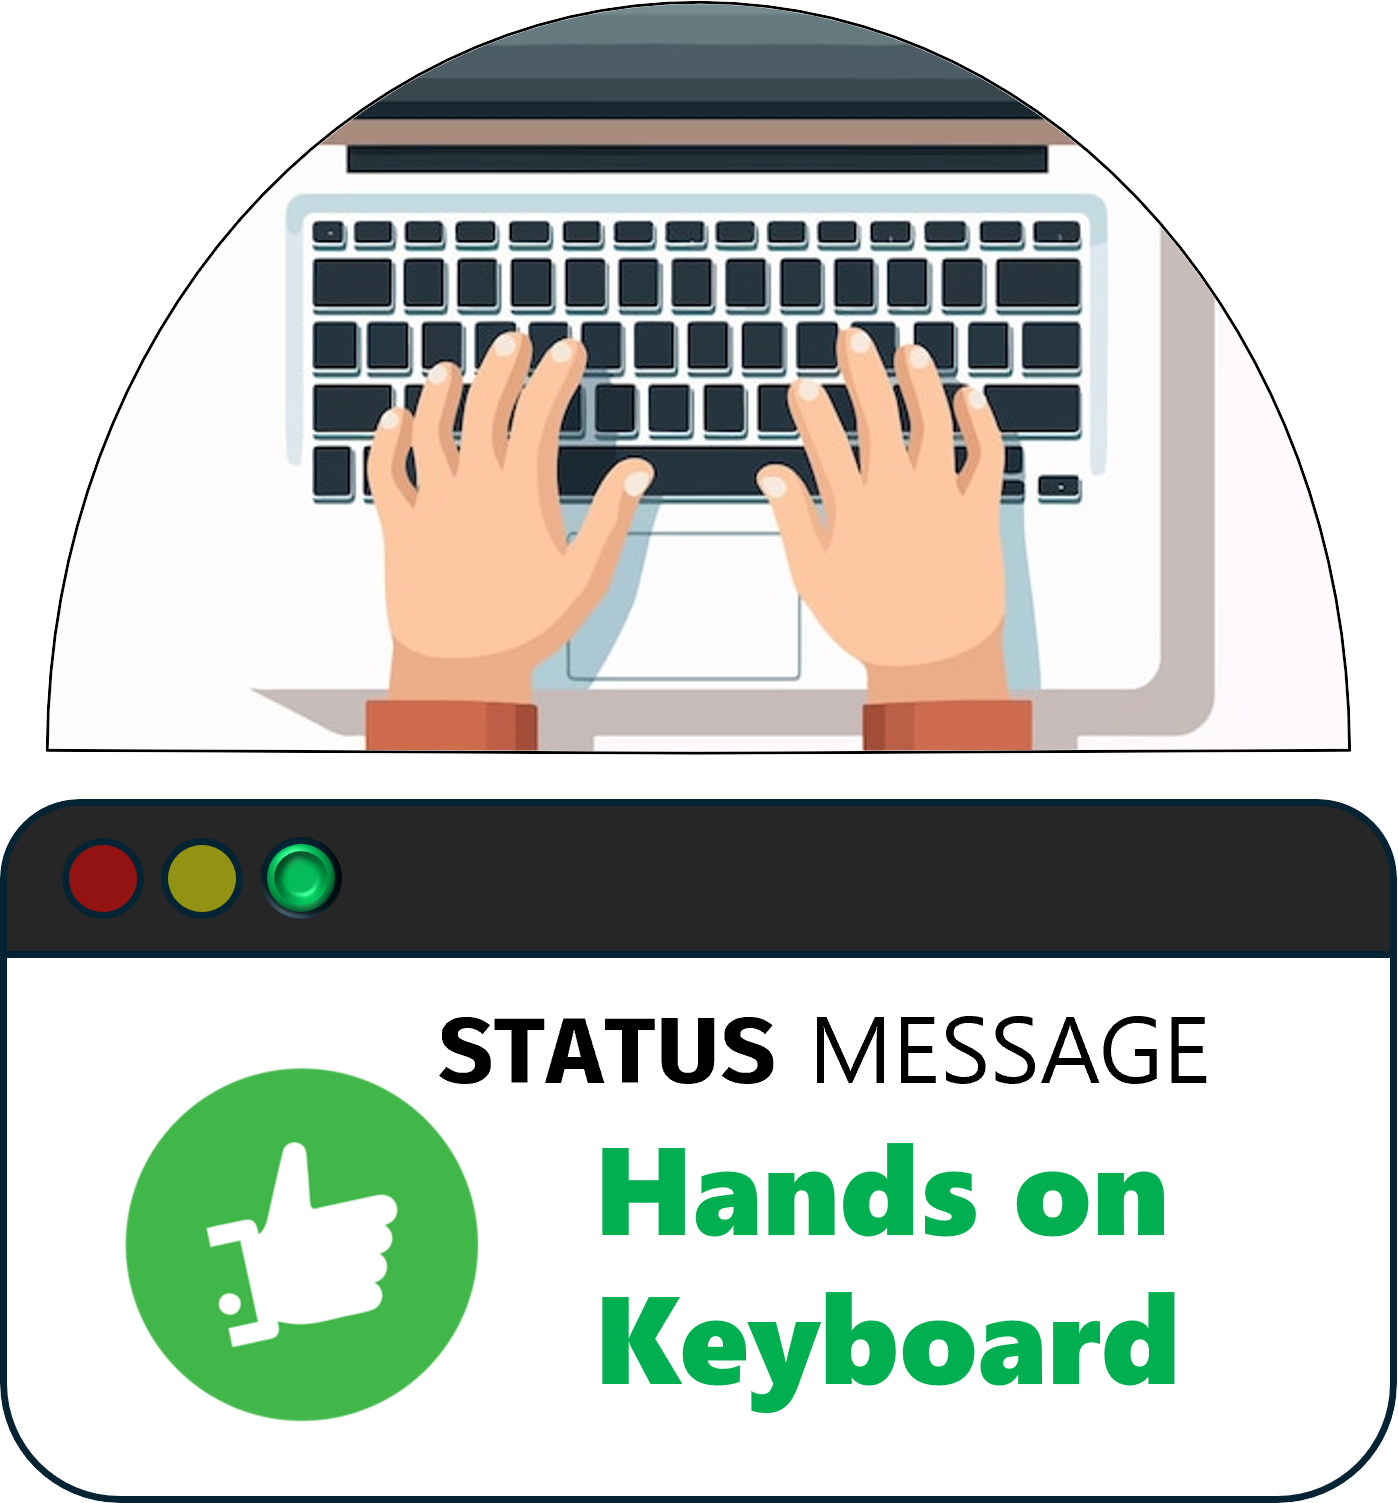
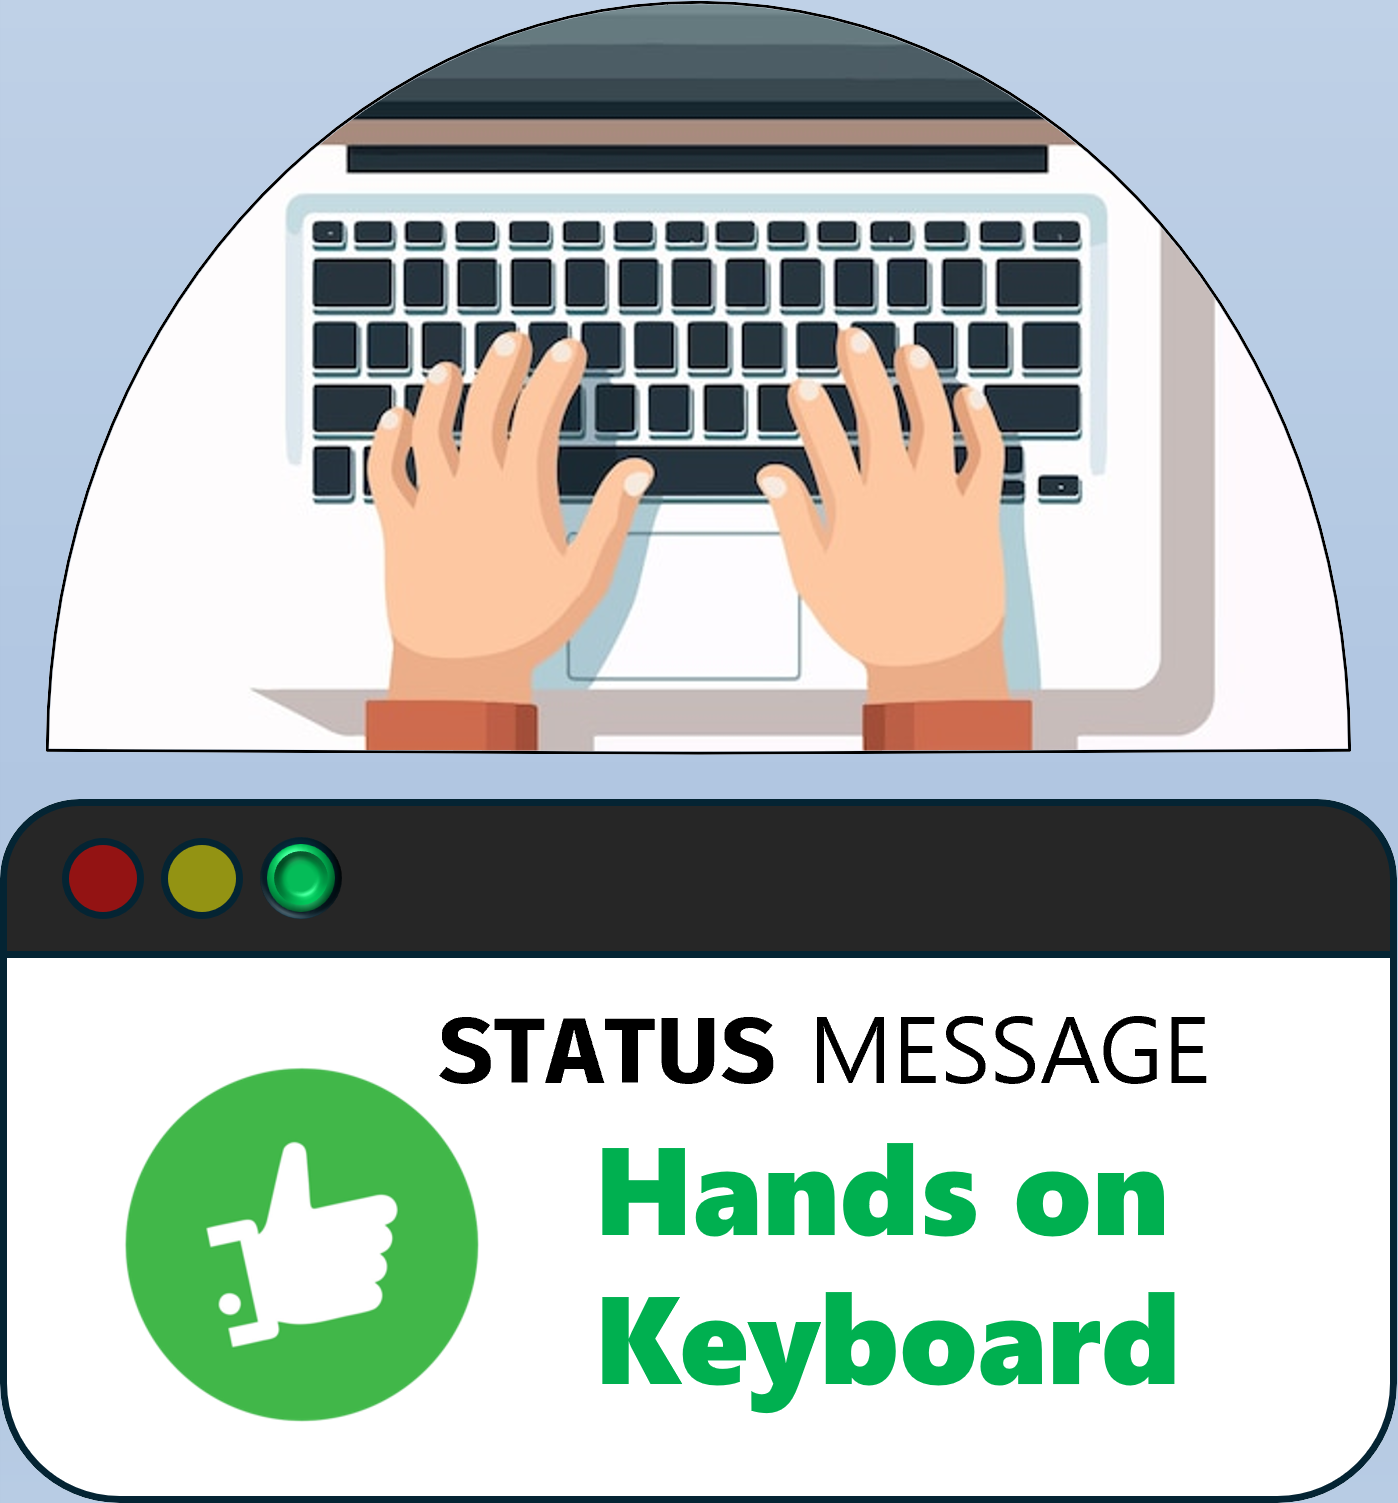
이미지 테두리 배경 변경 및 백그라운드 자리비움 틀(미완)

Changed region(s): [[0.0, 0.0, 1.0, 0.5815], [0.9227, 0.9182, 1.0, 1.0], [0.0, 0.9488, 0.0615, 1.0]]

diff --git a/UI/interface.py b/UI/interface.py
@@ -652,7 +652,8 @@ def Main_Window(db):
         lab_img4 = Label(new_win)
         lab_img4.config(image=mini4_1, background="azure")
         lab_img4.place(x=190,y=45)
-
+        lab_alarm = Label(new_win, font = ("맑은고딕", "15", "bold"), background= "azure")
+        lab_alarm.place(x=70, y=8)
         def update_new_win():
             # 어깨 판단
             if config.outputList[0] == 1:
@@ -681,6 +682,12 @@ def Main_Window(db):
                 lab_img4.config(image=mini4_2, background="azure")
             else:
                 lab_img4.config(image=mini4_1, background="azure")
+            # 자리비움 판단
+            if config.disappear == 1:
+                lab_alarm.config(text = "<자리 비움>", fg = "black")
+            else:
+                lab_alarm.config(text = "", fg = "black")
+
 
             # 500ms 후에 다시 업데이트
             new_win.after(50, update_new_win)
@@ -745,7 +752,7 @@ def Main_Window(db):
     img1_2 = img1_2.subsample(7)
     img1_3 = img1_3.subsample(7)
     lbl_img1 = Label(main_win)
-    lbl_img1.config(image=img1_1, background = "#CBDAEC")
+    lbl_img1.config(image=img1_1, background = "#CBDAEC", border=0)
     lbl_img1.place(x=750, y=170)
 
     # 거북목
@@ -756,7 +763,7 @@ def Main_Window(db):
     img2_2 = img2_2.subsample(7)
     img2_3 = img2_3.subsample(7)
     lbl_img2 = Label(main_win)
-    lbl_img2.config(image=img2_1, background = "#CBDAEC")
+    lbl_img2.config(image=img2_1, background = "#CBDAEC", border=0)
     lbl_img2.place(x=1000, y=170)
 
     # 턱괴기
@@ -765,7 +772,7 @@ def Main_Window(db):
     img3_1 = img3_1.subsample(7)
     img3_2 = img3_2.subsample(7)
     lbl_img3 = Label(main_win)
-    lbl_img3.config(image=img3_1, background = "#B0C6E1")
+    lbl_img3.config(image=img3_1, background = "#B0C6E1", border=0)
     lbl_img3.place(x=750, y=420)
 
     # 환경 밝기
@@ -774,7 +781,7 @@ def Main_Window(db):
     img4_1 = img4_1.subsample(7)
     img4_2 = img4_2.subsample(7)
     lbl_img4 = Label(main_win)
-    lbl_img4.config(image=img4_1, background = "#B0C6E1")
+    lbl_img4.config(image=img4_1, background = "#B0C6E1", border=0)
     lbl_img4.place(x=1000, y=420)
 
     # 내부 함수 2. join: 가입 버튼을 누르면 회원가입 창으로 바꿈
@@ -886,31 +893,31 @@ def Main_Window(db):
                 config.outputList = config.result_pose(config.estimation_pose(hand_distance))   # 파라미터에 center_mouth_dist랑 hand_distance 보내야함!
                 # 어깨 판단 
                 if config.outputList[0] == 1:
-                    lbl_img1.config(image=img1_2, background = "#CBDAEC")
+                    lbl_img1.config(image=img1_2, background = "#CBDAEC", border=0)
                 elif config.outputList[0] == 2:
-                    lbl_img1.config(image=img1_3, background = "#CBDAEC")
+                    lbl_img1.config(image=img1_3, background = "#CBDAEC", border=0)
                 else:
-                    lbl_img1.config(image=img1_1, background = "#CBDAEC")
+                    lbl_img1.config(image=img1_1, background = "#CBDAEC", border=0)
 
                 # 거북목 판단
                 if config.outputList[1] == 1:
-                    lbl_img2.config(image=img2_2, background = "#CBDAEC")
+                    lbl_img2.config(image=img2_2, background = "#CBDAEC", border=0)
                 elif config.outputList[1] == 2:
-                    lbl_img2.config(image=img2_3, background = "#CBDAEC")
+                    lbl_img2.config(image=img2_3, background = "#CBDAEC", border=0)
                 else:
-                    lbl_img2.config(image=img2_1, background = "#CBDAEC")
+                    lbl_img2.config(image=img2_1, background = "#CBDAEC", border=0)
 
                 # 턱괴기 판단
                 if config.outputList[2] == 1:
-                    lbl_img3.config(image=img3_2, background = "#B0C6E1")
+                    lbl_img3.config(image=img3_2, background = "#B0C6E1", border=0)
                 else:
-                    lbl_img3.config(image=img3_1, background = "#B0C6E1")
+                    lbl_img3.config(image=img3_1, background = "#B0C6E1", border=0)
 
                 # 환경밝기 판단
                 if config.outputList[3] == 1:
-                    lbl_img4.config(image=img4_2, background = "#B0C6E1")
+                    lbl_img4.config(image=img4_2, background = "#B0C6E1", border=0)
                 else:
-                    lbl_img4.config(image=img4_1, background = "#B0C6E1")
+                    lbl_img4.config(image=img4_1, background = "#B0C6E1", border=0)
 
                 # 메시지 변경
                 if (config.outputList[0] != 0 or config.outputList[1] != 0 or config.outputList[2] != 0 or config.outputList[3] != 0): 
